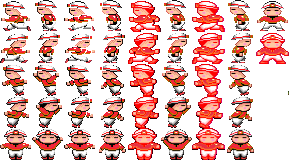
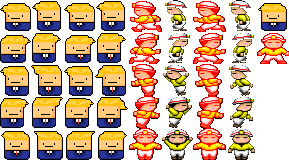
2020/10/03 TIKER 新增，增加T、B 勢力，英文介面

diff --git a/Player.js b/Player.js
@@ -232,6 +232,16 @@ class Player {
         this.score = distance + this.cutChopsticks *10; // 現在分數多了 取得筷子加權，每夾斷一雙 結算 +10
       }
 
+      if(this.species ==4)
+      {
+        this.score = distance ;
+      }
+
+      if(this.species ==5)
+      {
+        this.score = distance ;
+      }
+
       
       this.updatePlayer();
       this.checkNailCeiling();
@@ -937,27 +947,27 @@ class Player {
     if(this.species  ==0 && !this.isPlayingAnimation)
     {
 
-      if (this.attackMode ) {
+      // if (this.attackMode ) {
         
-        player.animations.play("leftAttack");
+      //   player.animations.play("leftAttack");
   
-        this.isPlayingAnimation = true;
+      //   this.isPlayingAnimation = true;
   
-        setTimeout(() => {
+      //   setTimeout(() => {
   
-          this.isPlayingAnimation = false;
-          console.log("isPlayingAnimation =  false")
-        }, 1000);
+      //     this.isPlayingAnimation = false;
+      //     console.log("isPlayingAnimation =  false")
+      //   }, 1000);
   
-        // if (!pistolFire.isPlaying) {
-        //     pistolFire.play();
-        // }
+      //   // if (!pistolFire.isPlaying) {
+      //   //     pistolFire.play();
+      //   // }
 
-        pistolFire.play();
+      //   pistolFire.play();
 
-        this.killMonster();
+      //   // this.killMonster();
         
-      }
+      // }
       // if (this.attackMode) {
       
       //   player.animations.play("rightAttack");
@@ -1223,39 +1233,39 @@ class Player {
 
 
 
-  killMonster()
-  {
-    // 找一個來殺
-    if(populations.length>3)
-    {
-      for (let i = 0; i < populations[3].players.length; i++)
-      {
-        if (!populations[3].players[i].dead ) {      
+  // killMonster()
+  // {
+  //   // 找一個來殺
+  //   if(populations.length>3)
+  //   {
+  //     for (let i = 0; i < populations[3].players.length; i++)
+  //     {
+  //       if (!populations[3].players[i].dead ) {      
           
-          populations[3].players[i].player.life -=3 ;     
+  //         populations[3].players[i].player.life -=3 ;     
 
-          this.player.life += 3;// 回血
+  //         this.player.life += 3;// 回血
 
-          var killmark = game.add.sprite(populations[3].players[i].player.x ,populations[3].players[i].player.y, "killmark");
+  //         var killmark = game.add.sprite(populations[3].players[i].player.x ,populations[3].players[i].player.y, "killmark");
 
-          killmark.scale.setTo(2,2);
+  //         killmark.scale.setTo(2,2);
 
-          killmark.animations.add("killmark", [0, 1, 2, 3,4,5], 8).killOnComplete = true;;
+  //         killmark.animations.add("killmark", [0, 1, 2, 3,4,5], 8).killOnComplete = true;;
 
-          killmark.animations.play("killmark");
+  //         killmark.animations.play("killmark");
 
-          populations[3].players[i].healthBar.text = populations[3].players[i].generateHealthBar(populations[3].players[i].player.life);
+  //         populations[3].players[i].healthBar.text = populations[3].players[i].generateHealthBar(populations[3].players[i].player.life);
 
-          if(populations[3].players[i].player.life  <= 0)
-          {
-            populations[3].players[i].dead = true; 
-          }
+  //         if(populations[3].players[i].player.life  <= 0)
+  //         {
+  //           populations[3].players[i].dead = true; 
+  //         }
                     
-          break;
-        }
-      }        
-    }
+  //         break;
+  //       }
+  //     }        
+  //   }
         
-  }
+  // }
 
 }

diff --git a/main.js b/main.js
@@ -97,6 +97,8 @@ let population,
   populationTsai,
   populationMoster,
   populationChiu,
+  populationT,
+  populationB,
   populations = [];
 recordScore = 0;
 
@@ -593,6 +595,10 @@ function preload() {
 
   game.load.image("logo_player3", "logo_player3.png");
 
+  game.load.image("logo_player4", "logo_player4.png");
+  
+  game.load.image("logo_player5", "logo_player5.png");
+
   game.load.spritesheet("conveyorRight", "conveyor_right.png", 96, 16);
   game.load.spritesheet("conveyorLeft", "conveyor_left.png", 96, 16);
   game.load.spritesheet("trampoline", "trampoline.png", 96, 22);
@@ -661,16 +667,23 @@ function create() {
   // Create population 
   // population = new Population(200);
 
-  populationHan = new Population(10, "BOT", 0);
+  populationHan = new Population(50, "BOT", 0);
 
   populationTsai = new Population(50, "BOT", 1);
 
   populationChiu =  new Population(50, "BOT", 3);
 
+  populationT =  new Population(50, "BOT", 4);
+
+  populationB =  new Population(50, "BOT", 5);
+
   // 先後順序會影像 影像前後，後放的可以蓋過前面
   populations.push(populationTsai);
   populations.push(populationHan);
   populations.push(populationChiu);
+  populations.push(populationT);
+  populations.push(populationB);
+  
   
 
   // createPlayer();
@@ -703,7 +716,7 @@ function create() {
   
   
   // 排名系統
-  game.add.text(1500,100, "最佳排名:", textStyle);
+  game.add.text(1500,100, "Top Ranks:", textStyle);
   
 }
 
@@ -1055,8 +1068,11 @@ function updateDistance() {
 
 function createOnePlatform() {
   var platform;
+  
   var x = Math.random() * (gameWidth - 96 * scale - 40 * scale) + 20 * scale +400;
+  
   var y = gameHeight;
+  
   var rand = Math.random() * 100;
 
   let platformType = "normal";
@@ -1163,7 +1179,12 @@ function updatePlatforms() {
     var platform = platforms[i];
 
     // 地板移動速度 受到常數加成
+
+    // 重直 Y 方向 運動
     platform.body.position.y -= 2 * gameSpeed;
+
+    // 水平 X 方向 運動
+    // platform.body.position.x -= 0.75 * gameSpeed;
 
     if (platform.body.position.y <= -32) {
       platform.destroy();
@@ -1223,10 +1244,10 @@ function restart() {
   // population.naturalSelection();
 
   // 把後面MOSTER 族群移掉
-  if(populations.length >=3)
+  if(populations.length >=5)
   {
-    // 只取前面三個 家族(han tsai chiu)
-    populations = populations.slice(0,3)
+    // 只取前面五個 家族(han tsai chiu T、B)
+    populations = populations.slice(0,5)
   }
 
 
@@ -1303,7 +1324,19 @@ function checkNewRank() {
 
     logo_player.scale.setTo(2,2);
 
-    var familyName = game.add.text(1540,200 + i*100, rankList[i].familyName + " " + rankList[i].gen +" 世", textStyleII);    
+    var generation ='th';
+
+    if(rankList[i].gen  == '2')
+    {
+      generation ='nd';      
+    }
+
+    if(rankList[i].gen  == '3')
+    {
+      generation ='rd';      
+    }
+
+    var familyName = game.add.text(1540,200 + i*100, rankList[i].familyName + " the " + rankList[i].gen + generation, textStyleII);    
 
     var score = game.add.text(1620,160+ i*100,+ rankList[i].score, textStyleI);    
 

diff --git a/index.html b/index.html
@@ -83,9 +83,8 @@
       <div class="scoreboard">
         <div>
           <div class="score-text">
-            第
-            <span id="generation">0</span>
-            代
+            Generation
+            <span id="generation">0</span>            
           </div>
           <!-- <div class="score-text">
             人民法槌進度:
@@ -100,10 +99,9 @@
           </div>
         </div>
         <div class="score-wrapper">
-          <div class="score-text">
-            地下
+          <div class="score-text">            
             <span id="score">0000</span>
-            階
+            Floor
           </div>
         </div>
         <div>
